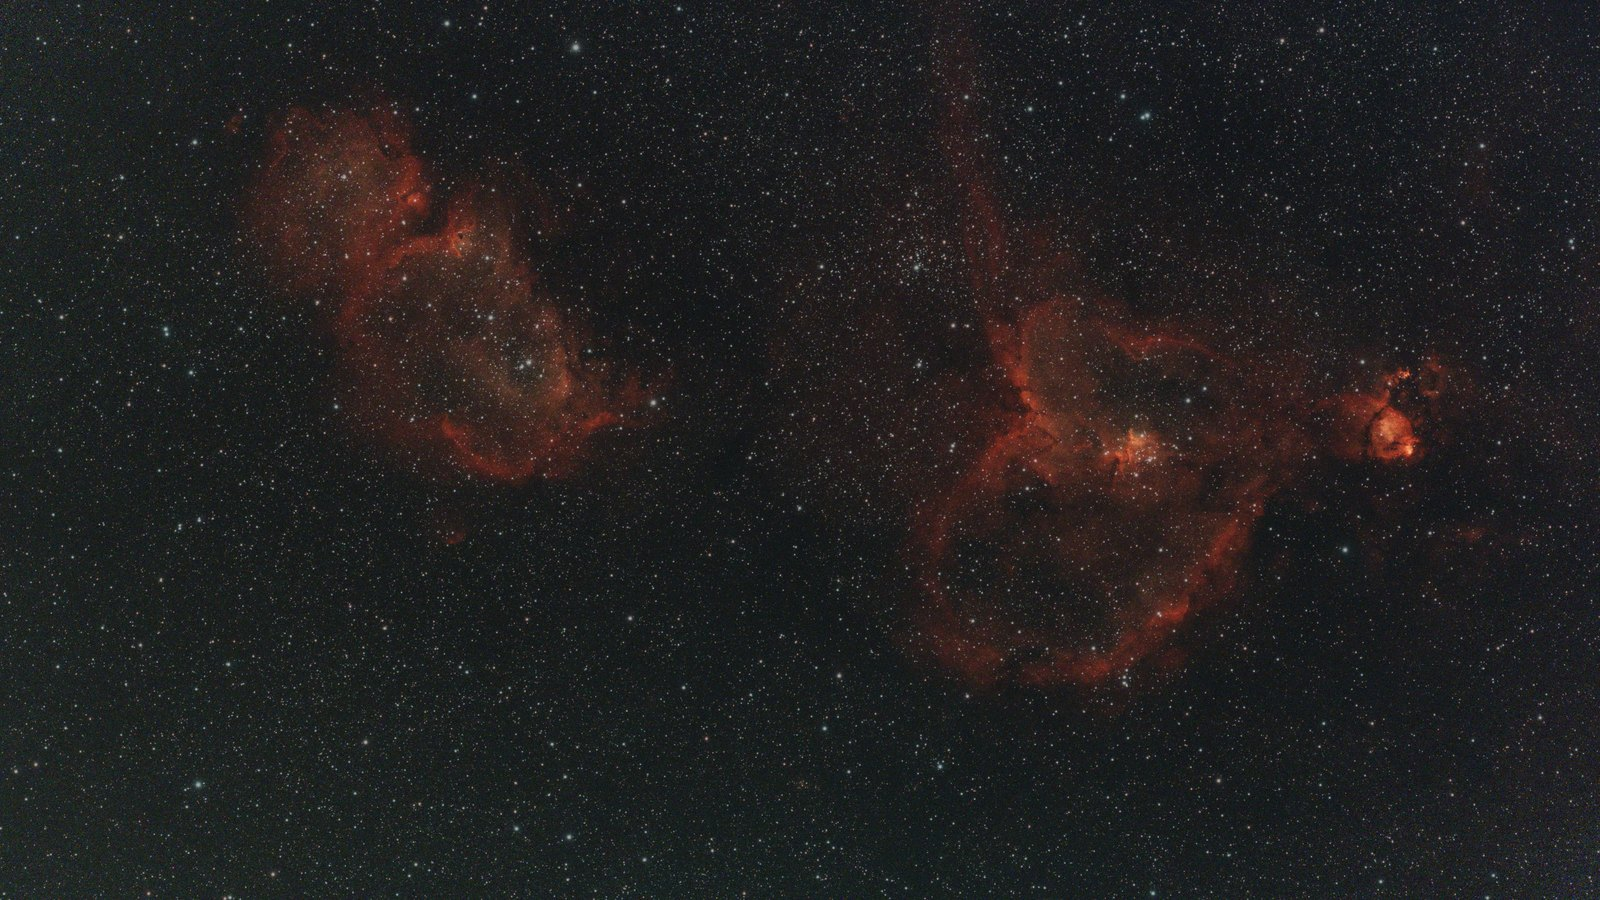
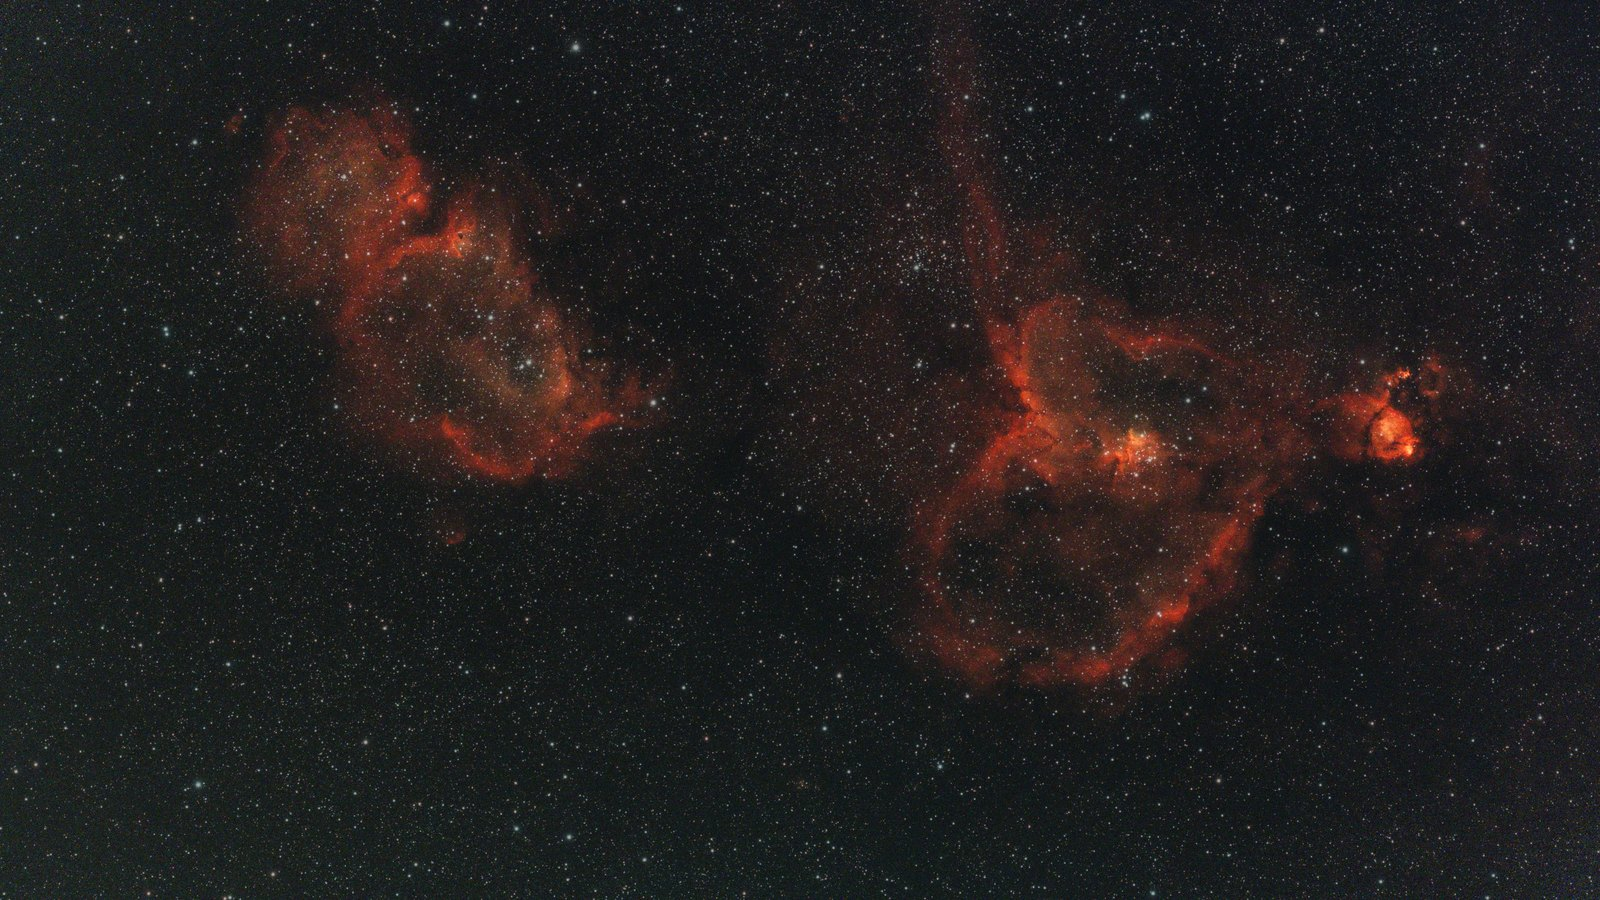
Add Vespera to supported telescopes; lifted Heart and Soul mosaic

diff --git a/index.html b/index.html
@@ -146,7 +146,7 @@ html { scroll-behavior: smooth; }
     <div>
       <p class="eyebrow">Image processing for smart telescopes</p>
       <h1>Your Seestar already caught the light. <em>Let's develop it.</em></h1>
-      <p class="lede">Send me the raw frames from your Seestar, Dwarf, or any smart telescope that saves FITS files. I screen out the cloudy ones, stack the rest properly and process them into a finished picture you'll want on the wall.</p>
+      <p class="lede">Send me the raw frames from your Seestar, Dwarf, Vespera, or any smart telescope that saves FITS files. I screen out the cloudy ones, stack the rest properly and process them into a finished picture you'll want on the wall.</p>
       <a class="cta" href="#how">See how it works</a>
     </div>
     <div class="ba" style="--pos:50%">
@@ -340,7 +340,7 @@ html { scroll-behavior: smooth; }
     <div class="faq">
       <details><summary>Who owns the finished image?</summary><p>You do. It's your data and your picture. I'll only show it here if you say yes.</p></details>
       <details><summary>Do you use AI tools?</summary><p>Yes, and openly. Noise reduction, star removal and sharpening use specialist astronomy tools that run on trained models, alongside conventional PixInsight processing. Nothing is invented: every detail in the final image is in your frames.</p></details>
-      <details><summary>Which telescopes work?</summary><p>Any telescope that saves its individual frames as FITS files. So far: the ZWO Seestar S30 and S50, DWARFLAB's Dwarf range including the new Draco, and data from Telescope Live. If yours isn't listed, send a few frames and I'll check them first.</p></details>
+      <details><summary>Which telescopes work?</summary><p>Any telescope that saves its individual frames as FITS files. So far: the ZWO Seestar S30 and S50, DWARFLAB's Dwarf range including the new Draco, the Vaonis Vespera, and data from Telescope Live. Vespera files need a small correction before stacking (their colour layout is labelled upside down), which I handle as part of the job. If yours isn't listed, send a few frames and I'll check them first.</p></details>
       <details><summary>How much data should I send?</summary><p>An hour is enough for bright targets. Faint nebulae and galaxies really reward three hours or more, and several nights of the same target can be combined.</p></details>
       <details><summary>What happens to my files afterwards?</summary><p>Your frames are deleted once you're happy with the result, unless you ask me to keep them for adding more nights later.</p></details>
     </div>

diff --git a/site.html b/site.html
@@ -132,7 +132,7 @@ html { scroll-behavior: smooth; }
     <div>
       <p class="eyebrow">Image processing for smart telescopes</p>
       <h1>Your Seestar already caught the light. <em>Let's develop it.</em></h1>
-      <p class="lede">Send me the raw frames from your Seestar, Dwarf, or any smart telescope that saves FITS files. I screen out the cloudy ones, stack the rest properly and process them into a finished picture you'll want on the wall.</p>
+      <p class="lede">Send me the raw frames from your Seestar, Dwarf, Vespera, or any smart telescope that saves FITS files. I screen out the cloudy ones, stack the rest properly and process them into a finished picture you'll want on the wall.</p>
       <a class="cta" href="#how">See how it works</a>
     </div>
     <div class="ba" style="--pos:50%">
@@ -326,7 +326,7 @@ html { scroll-behavior: smooth; }
     <div class="faq">
       <details><summary>Who owns the finished image?</summary><p>You do. It's your data and your picture. I'll only show it here if you say yes.</p></details>
       <details><summary>Do you use AI tools?</summary><p>Yes, and openly. Noise reduction, star removal and sharpening use specialist astronomy tools that run on trained models, alongside conventional PixInsight processing. Nothing is invented: every detail in the final image is in your frames.</p></details>
-      <details><summary>Which telescopes work?</summary><p>Any telescope that saves its individual frames as FITS files. So far: the ZWO Seestar S30 and S50, DWARFLAB's Dwarf range including the new Draco, and data from Telescope Live. If yours isn't listed, send a few frames and I'll check them first.</p></details>
+      <details><summary>Which telescopes work?</summary><p>Any telescope that saves its individual frames as FITS files. So far: the ZWO Seestar S30 and S50, DWARFLAB's Dwarf range including the new Draco, the Vaonis Vespera, and data from Telescope Live. Vespera files need a small correction before stacking (their colour layout is labelled upside down), which I handle as part of the job. If yours isn't listed, send a few frames and I'll check them first.</p></details>
       <details><summary>How much data should I send?</summary><p>An hour is enough for bright targets. Faint nebulae and galaxies really reward three hours or more, and several nights of the same target can be combined.</p></details>
       <details><summary>What happens to my files afterwards?</summary><p>Your frames are deleted once you're happy with the result, unless you ask me to keep them for adding more nights later.</p></details>
     </div>

diff --git a/tools/make_pairs.py b/tools/make_pairs.py
@@ -55,7 +55,7 @@ save(bef, 'heart_before.jpg'); save(aft, 'heart_after.jpg')
 save(load('D:/Brampton_Oct7-8_work/Draco_Heart_hybrid/Draco_Heart_HOO.jpg'), 'heart_hoo.jpg')
 
 # Heart and Soul mosaic (Seestar), shown on its own
-print('Mosaic'); save(load('D:/IC1805_work/IC1805_F4.jpg'), 'heart_soul_mosaic.jpg', rot=True)
+print('Mosaic'); save(load('D:/IC1805_work/IC1805_F5_lifted.jpg'), 'heart_soul_mosaic.jpg', rot=True)
 
 # Telescope Live data processed by Mark (credit "Data: Telescope Live" on the site)
 print('Telescope Live')
